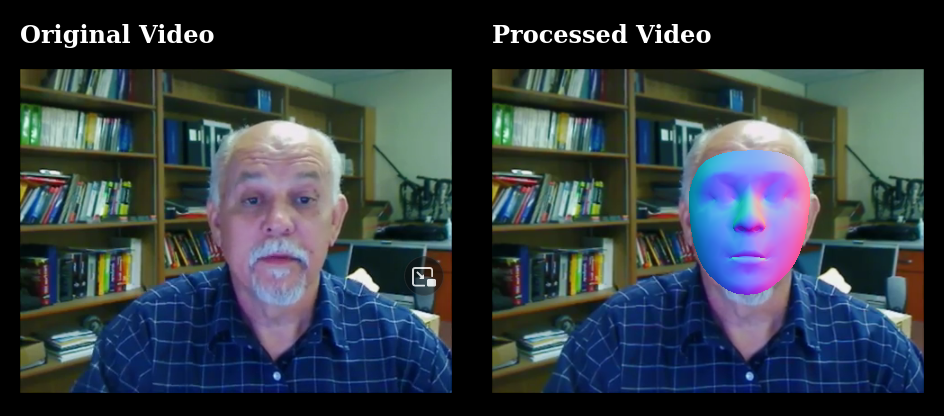
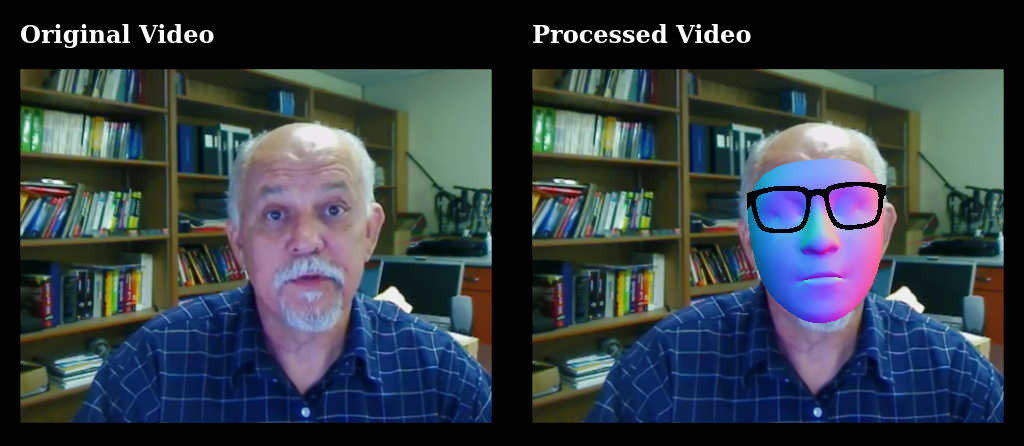
refactor face mask and glasses

Changed region(s): [[0.0, 0.1562, 0.9831, 0.9688], [0.5222, 0.0312, 0.768, 0.125], [0.0, 0.0312, 0.2458, 0.125]]

diff --git a/src/js/three_components/glasses.js b/src/js/three_components/glasses.js
@@ -2,7 +2,7 @@
 import * as THREE from 'three';
 import { PUBLIC_PATH } from '../public_path';
 import { GLTFLoader } from 'three/examples/jsm/loaders/GLTFLoader.js'
-import { scaleLandmark, makeGeometry } from '../facemesh/landmarks_helpers';
+import { scaleLandmark } from '../facemesh/landmarks_helpers';
 
 function loadModel( file ) {
   return new Promise( ( res, rej ) => {
@@ -15,20 +15,19 @@ function loadModel( file ) {
   });
 }
 
-export class FacesManager {
+export class Glasses {
   constructor(scene, width, height) {
     this.scene = scene;
-    this.needsUpdate = false;
-    this.landmarks = null;
-    this.faces = null;
     this.width = width;
     this.height = height;
-    this.material = new THREE.MeshNormalMaterial();
+    this.needsUpdate = false;
+    this.landmarks = null;
     this.loadGlasses();
   }
 
   async loadGlasses() {
     this.glasses = await loadModel( `${PUBLIC_PATH}/3d/black-glasses/scene.gltf` );
+    this.glasses.name = 'glasses';
   }
 
   updateDimensions(width, height) {
@@ -42,12 +41,7 @@ export class FacesManager {
     this.needsUpdate = true;
   }
 
-  updateMaterial(material) {
-    this.material = material;
-    this.material.needsUpdate = true;
-  }
-
-  addGlasses() {
+  updateGlasses() {
     let midEyes = scaleLandmark(this.landmarks[168], this.width, this.height);
     let leftEyeInnerCorner = scaleLandmark(this.landmarks[463], this.width, this.height);
     let rightEyeInnerCorner = scaleLandmark(this.landmarks[243], this.width, this.height);
@@ -111,6 +105,11 @@ export class FacesManager {
       
       this.glasses.rotation.set(xRot, yRot, zRot);
 
+    }
+  }
+
+  addGlasses() {
+    if (this.glasses) {
       this.scene.add(this.glasses);
     }
   }
@@ -118,31 +117,18 @@ export class FacesManager {
   removeGlasses() {
     this.scene.remove(this.glasses);
   }
-  
-  addFaces() {
-    // create faces
-    let geometry = makeGeometry(this.landmarks);
-    this.faces = new THREE.Mesh(geometry, this.material);
-    this.faces.position.set(0, 0, 0);
-    this.faces.scale.set(this.width, this.height, this.width);
-    this.scene.add(this.faces);
-  }
-
-  removeFaces() {
-    this.scene.remove(this.faces);
-  }
 
   update() {
     if (this.needsUpdate) {
-      if (this.faces != null) {
-        this.removeFaces();
-        this.removeGlasses();
+      let inScene = !!this.scene.getObjectByName('glasses');
+      let shouldShow = !!this.landmarks;
+      if (inScene) {
+        shouldShow ? this.updateGlasses() : this.removeGlasses();
+      } else {
+        if (shouldShow) {
+          this.addGlasses();
+        }
       }
-      if (this.landmarks != null) {
-        this.addFaces();
-        this.addGlasses();
-      }
-      this.needsUpdate = false;
     }
   }
 }

diff --git a/src/js/three_components/scene_manager.js b/src/js/three_components/scene_manager.js
@@ -1,5 +1,6 @@
 import * as THREE from 'three';
-import { FacesManager } from './faces_manager';
+import { FaceMask } from './face_mask';
+import { Glasses } from './glasses';
 import { VideoBackground } from './video_bg';
 import { OrbitControls } from 'three/examples/jsm/controls/OrbitControls'
 
@@ -37,7 +38,8 @@ export class SceneManager {
     this.buildCamera();
     this.buildControls();
     this.buildVideoBg();
-    this.buildFacesManager();
+    this.buildFaceMask();
+    this.buildGlasses();
   }
 
   buildVideoBg() {
@@ -48,10 +50,17 @@ export class SceneManager {
     );
   }
 
-  buildFacesManager() {
+  buildFaceMask() {
     // this component draws faces
-    this.facesManager = new FacesManager(this.scene, 
+    this.faceMask = new FaceMask(this.scene, 
       this.renderer.domElement.width, 
+      this.renderer.domElement.height
+    )
+  }
+
+  buildGlasses() {
+    this.glasses = new Glasses(this.scene,
+      this.renderer.domElement.width,
       this.renderer.domElement.height
     )
   }
@@ -147,12 +156,17 @@ export class SceneManager {
 
     if (this.resizeRendererToDisplaySize()) {
       
-      // facemanager needs to scale faces according to 
+      // facemask needs to scale faces according to 
       // renderer dimensions
-      this.facesManager.updateDimensions(
+      this.faceMask.updateDimensions(
         this.renderer.domElement.width, 
         this.renderer.domElement.height
       );
+
+      this.glasses.updateDimensions(
+        this.renderer.domElement.width,
+        this.renderer.domElement.height,
+      )
 
       // update video width and height
       this.videoBg.updateDimensions(
@@ -167,8 +181,11 @@ export class SceneManager {
     // update video background
     this.videoBg.update();
 
-    // update faces manager
-    this.facesManager.update();
+    // update faces mask
+    this.faceMask.update();
+
+    // update glasses
+    this.glasses.update();
 
     // render scene
     this.renderer.render(this.scene, this.camera);
@@ -182,7 +199,8 @@ export class SceneManager {
   onLandmarks(image, landmarks) {
     if (image && landmarks) {
       this.videoBg.setImage(image);
-      this.facesManager.updateLandmarks(landmarks);
+      this.faceMask.updateLandmarks(landmarks);
+      this.glasses.updateLandmarks(landmarks);
     }
   }
 }

diff --git a/src/js/three_components/face_mask.js b/src/js/three_components/face_mask.js
@@ -1,0 +1,56 @@
+
+import * as THREE from 'three';
+import { makeGeometry } from '../facemesh/landmarks_helpers';
+
+export class FaceMask {
+  constructor(scene, width, height) {
+    this.scene = scene;
+    this.needsUpdate = false;
+    this.landmarks = null;
+    this.faces = null;
+    this.width = width;
+    this.height = height;
+    this.material = new THREE.MeshNormalMaterial();
+  }
+
+  updateDimensions(width, height) {
+    this.width = width;
+    this.height = height;
+    this.needsUpdate = true;
+  }
+
+  updateLandmarks(landmarks) {
+    this.landmarks = landmarks;
+    this.needsUpdate = true;
+  }
+
+  updateMaterial(material) {
+    this.material = material;
+    this.material.needsUpdate = true;
+  }
+
+  addFaces() {
+    // create faces
+    let geometry = makeGeometry(this.landmarks);
+    this.faces = new THREE.Mesh(geometry, this.material);
+    this.faces.position.set(0, 0, 0);
+    this.faces.scale.set(this.width, this.height, this.width);
+    this.scene.add(this.faces);
+  }
+
+  removeFaces() {
+    this.scene.remove(this.faces);
+  }
+
+  update() {
+    if (this.needsUpdate) {
+      if (this.faces != null) {
+        this.removeFaces();
+      }
+      if (this.landmarks != null) {
+        this.addFaces();
+      }
+      this.needsUpdate = false;
+    }
+  }
+}

diff --git a/src/index.js b/src/index.js
@@ -12,7 +12,7 @@ const template = `
   <div>
     <h2>Original Video</h2>
     <video class="input_video" controls playsinline>
-      <source  src="${PUBLIC_PATH}/video/videoplayback.mp4">
+      <source  src="${PUBLIC_PATH}/video/videoplayback2.mp4">
     </video>
   </div>
   <div>

diff --git a/README.md b/README.md
@@ -8,7 +8,6 @@ Realtime facemesh effects using mediapipe and Three JS. Works realtime even on o
 ## Todo
 * add more face effects
 * option to use camera
-* demo site
 * make it work on older android phones
 
 ## Building and running on localhost
